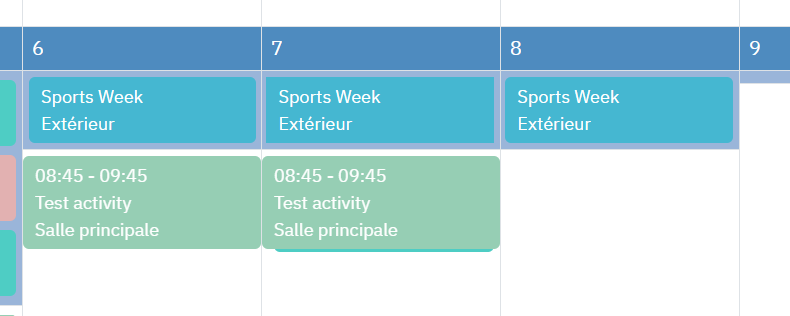
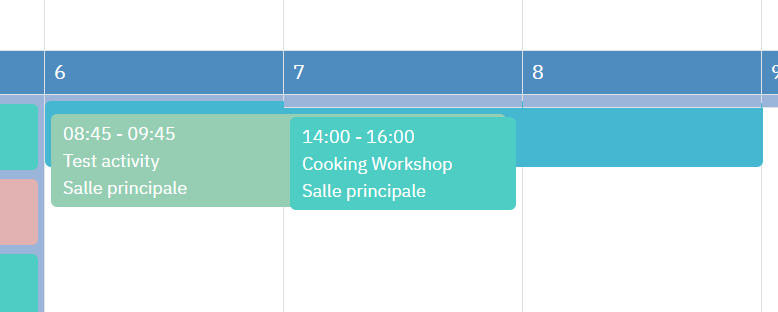
Agent query: Are the category filter buttons visible at the top of the calendar and can you filter events by clicking on them?

diff --git a/static/js/calendar.js b/static/js/calendar.js
@@ -406,7 +406,9 @@ document.addEventListener('DOMContentLoaded', function() {
             if (activityEndDate > activityStartDate) {
                 const days = Math.ceil((activityEndDate - activityStartDate) / (1000 * 60 * 60 * 24)) + 1;
                 activityElement.style.width = `calc(${days * 100}% + ${days}px)`;
-                activityElement.style.zIndex = 1;
+                // Set z-index inversely proportional to duration - longer events go behind
+                const duration = activityEndDate - activityStartDate;
+                activityElement.style.zIndex = Math.max(1, 100 - Math.floor(duration / (1000 * 60 * 60 * 24)));
             }
             
             container.appendChild(activityElement);

diff --git a/static/css/style.css b/static/css/style.css
@@ -92,8 +92,8 @@
     flex-direction: column;
     gap: 2px;
     position: relative;
-    min-height: 0; /* Remove fixed height */
-    height: auto; /* Allow height to grow */
+    min-height: 0;
+    height: auto;
     z-index: 1;
     overflow: visible;
     background-color: #9AB5D9;
@@ -106,7 +106,7 @@
     flex-direction: column;
     gap: 2px;
     position: relative;
-    height: auto; /* Allow height to grow */
+    height: auto;
     min-height: 60px;
     overflow: visible;
     z-index: 2;
@@ -139,7 +139,6 @@
     height: auto;
     position: absolute;
     left: 0;
-    z-index: 1;
     border-radius: 4px;
 }
 
